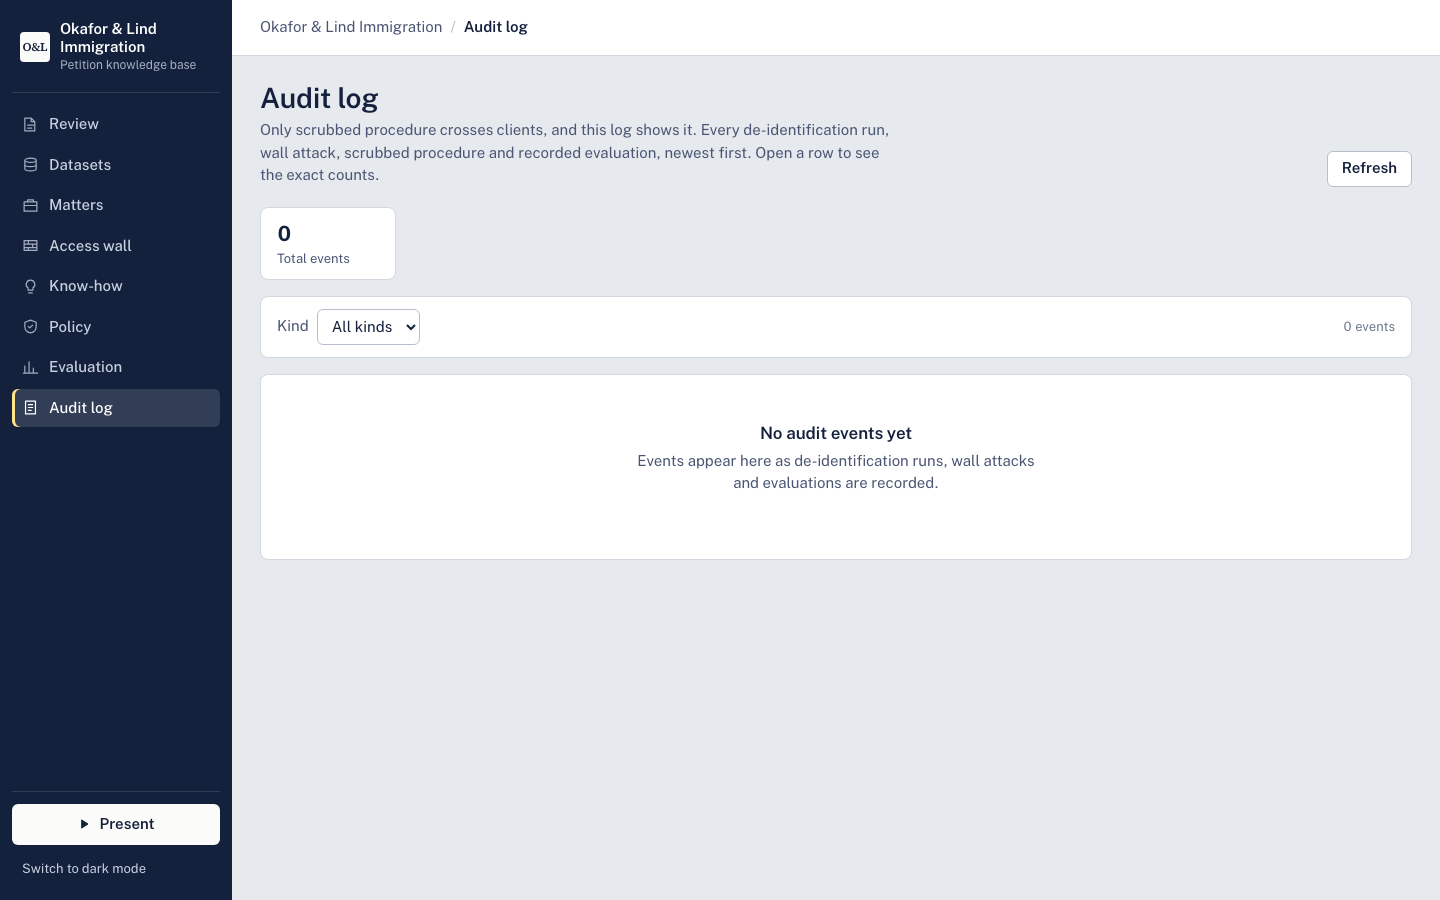
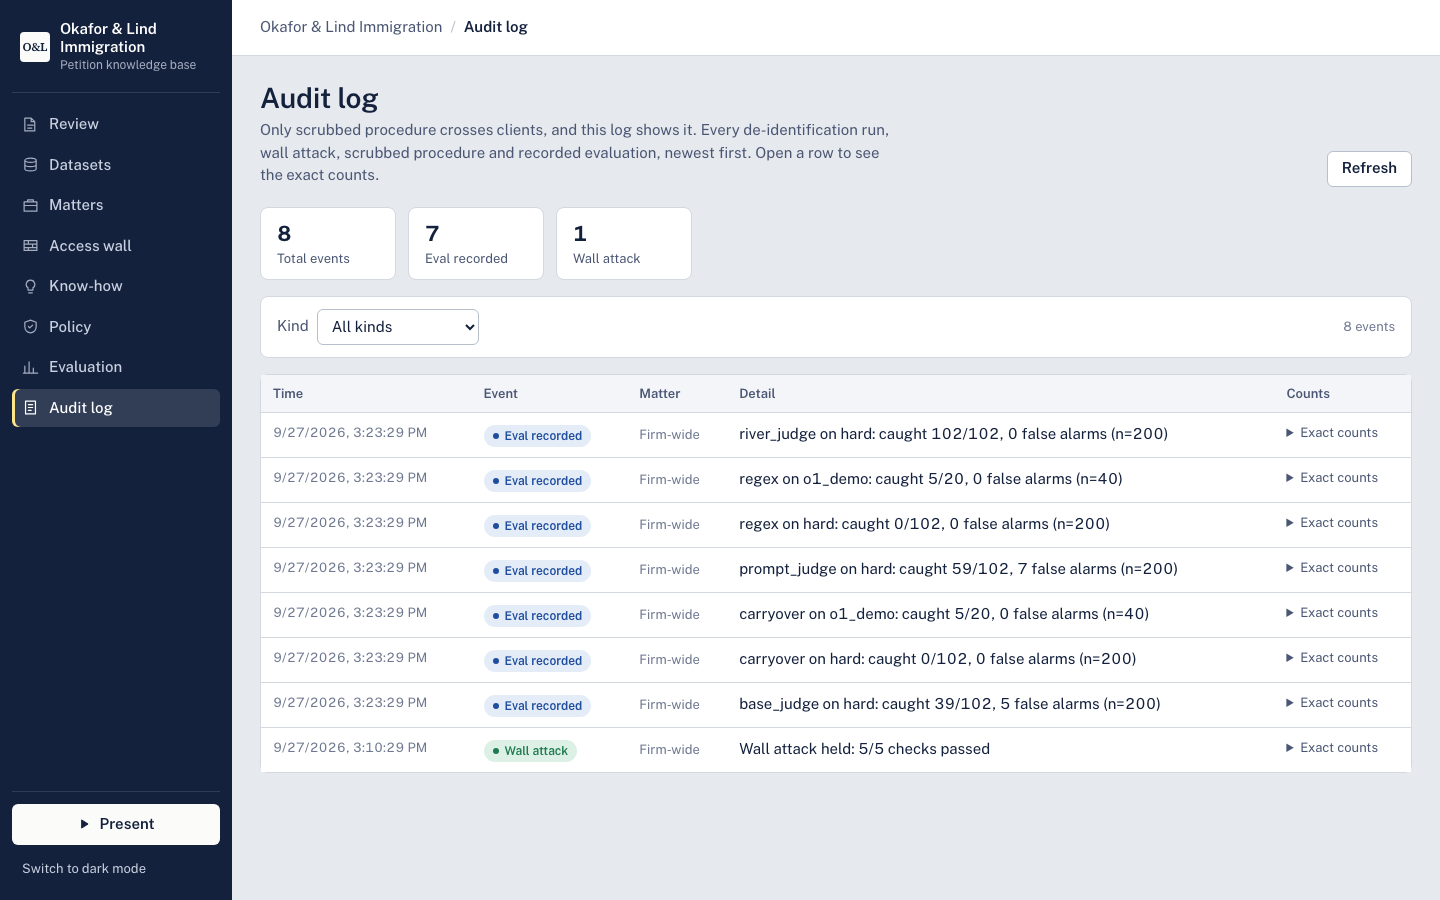
h16: final pass with live backend (compound/audit/policy populated)

diff --git a/docs/img/README.md b/docs/img/README.md
@@ -2,7 +2,7 @@
 
 Captured at 1440x900 with headless Chrome from the demo served same-origin
 with the API, so live/stub data renders where the page supports it.
-Re-captured as pages improve; last full pass 15:32.
+Re-captured as pages improve; last full pass 16:10 (live backend).
 
 | Screen | File | Source page |
 |---|---|---|
